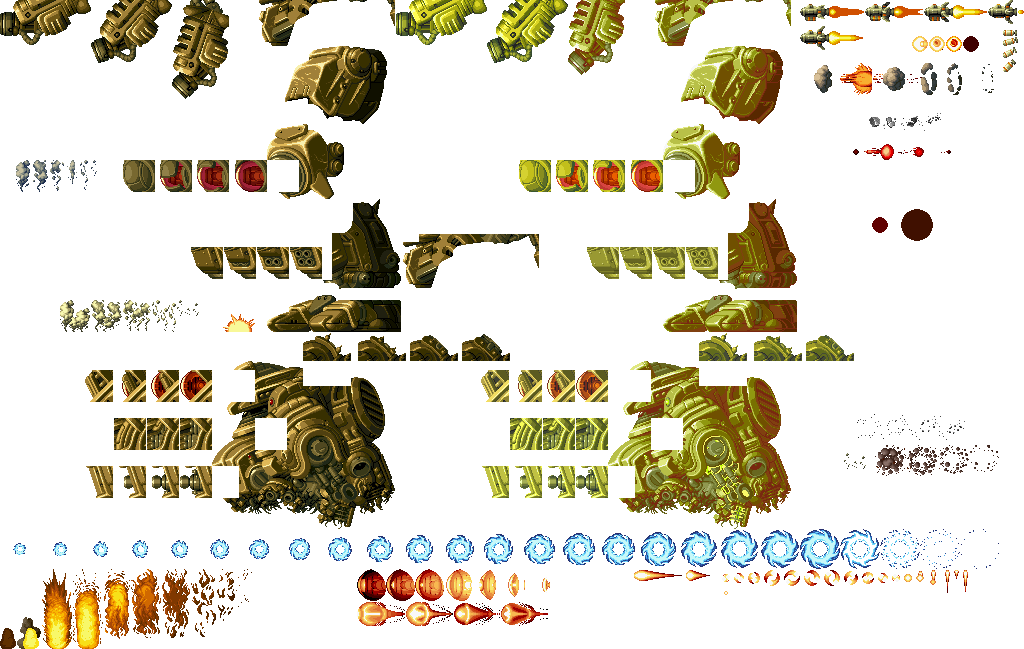
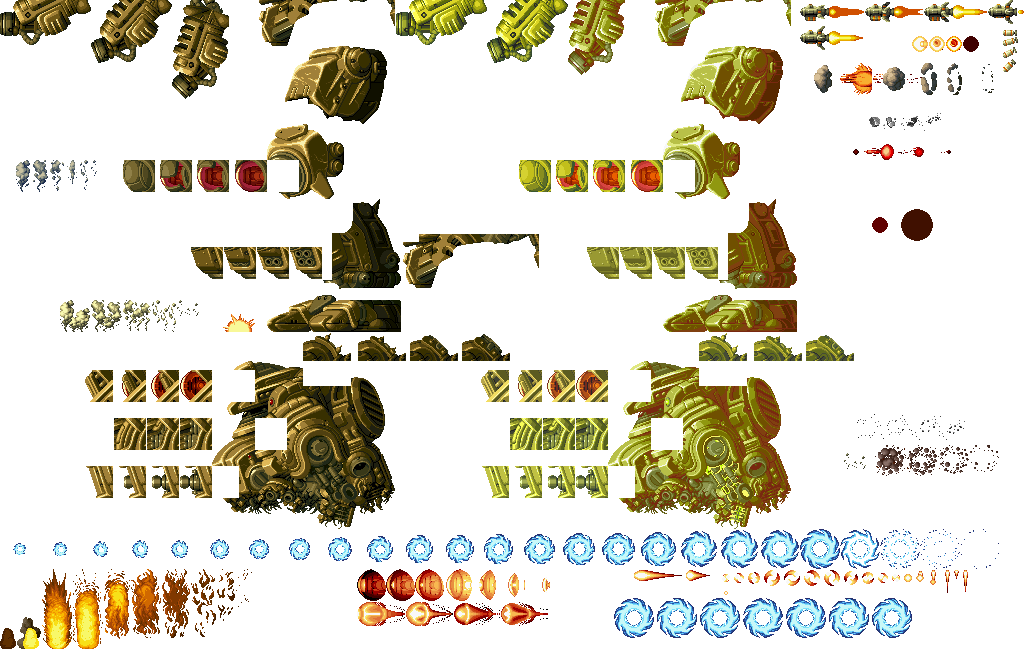
finished enemyShurikens and with this, finished full boss level3

Changed region(s): [[0.5938, 0.9245, 0.9062, 0.9861]]

diff --git a/EnemyShuriken.cpp b/EnemyShuriken.cpp
@@ -36,11 +36,30 @@ EnemyShuriken::EnemyShuriken(int x, int y, powerUpTypes type, SDL_Texture* thisT
 	missile.anim[0].PushBack({ 720,529,40,40 });
 	missile.anim[0].PushBack({ 760,529,40,40 });
 	missile.anim[0].PushBack({ 800,529,40,40 });
+	missile.anim[0].speed = 0.50f;
+	missile.anim[0].repeat = false;
 
+	// looping animation
+	missile.anim[1].PushBack({ 614,598,40,40 });
+	missile.anim[1].PushBack({ 657,598,40,40 });
+	missile.anim[1].PushBack({ 700,598,40,40 });
+	missile.anim[1].PushBack({ 743,598,40,40 });
+	missile.anim[1].PushBack({ 786,598,40,40 });
+	missile.anim[1].PushBack({ 829,598,40,40 });
+	missile.anim[1].PushBack({ 872,598,40,40 });
+	missile.anim[1].speed = 0.25f;
 
-	animation = &missile.anim[4]; //links animation
+	// disappear anim
+	missile.anim[2].PushBack({ 840,529,40,40 });
+	missile.anim[2].PushBack({ 880,529,40,40 });
+	missile.anim[2].PushBack({ 920,529,40,40 });
+	missile.anim[2].PushBack({ 960,529,40,40 });
+	missile.anim[2].speed = 0.25f;
+	missile.anim[2].repeat = false;
 
-	missile.current_animation = &missile.anim[4];
+	//animation = &missile.anim[4]; //links animation
+
+	//missile.current_animation = &missile.anim[4];
 
 	//original_y = y;
 	//fposition.x = x;
@@ -78,7 +97,7 @@ EnemyShuriken::EnemyShuriken(int x, int y, powerUpTypes type, SDL_Texture* thisT
 
 
 	// add collider
-	collider = App->collision->AddCollider({ 0, 0, 4, 4 }, COLLIDER_TYPE::COLLIDER_ENEMY, (Module*)App->enemies);
+	collider = App->collision->AddCollider({ 0, 0, 20, 20 }, COLLIDER_TYPE::COLLIDER_ENEMY, (Module*)App->enemies);
 
 }
 
@@ -86,7 +105,7 @@ void EnemyShuriken::Move()
 {
 	// update collider position
 	if (collider != nullptr)
-		collider->SetPos(position.x, position.y);
+		collider->SetPos(position.x +10, position.y + 10 );
 
 	// updates fpositions
 	missile.fposition.x += missile.xSpeed + scrollSpeed; // plus update with the current player follow camera speed
@@ -120,11 +139,14 @@ void EnemyShuriken::Draw()
 	}
 
 	if (missile.now_alive_time >= missile.search_life_time)
+		missile.current_animation = &missile.anim[2];
+
+	if (missile.anim[2].finish)
 		killMe = true; // destroy missile
 
-					   // ---------------------------------------------------------------------------------------------------
+	// ---------------------------------------------------------------------------------------------------
 
-					   // movement logic call
+	 // movement logic call
 
 	if (missile.searching)
 	{
@@ -134,6 +156,13 @@ void EnemyShuriken::Draw()
 
 
 	// MISSILE animation draw -------------------------------------------------------
+
+	if (missile.anim[0].finish && !notSwaped)
+	{
+		missile.current_animation = &missile.anim[1];
+		
+		notSwaped = true;
+	}
 
 	missile.rect = missile.current_animation->GetCurrentFrame();
 

diff --git a/EnemyColdMachine.cpp b/EnemyColdMachine.cpp
@@ -549,6 +549,8 @@ void EnemyColdMachine::fase2AttackManager()
 				// instantiate next shuriken
 				coldMachine.chest.numShurikens++;
 				LOG("SHURIKEN %d", coldMachine.chest.numShurikens);
+				App->enemies->AddEnemy(SHURIKEN, position.x + coldMachine.chest.chestPiece.position.x + 100, 
+					position.y + coldMachine.chest.chestPiece.position.y - 6, NONE);
 
 				if (coldMachine.chest.numShurikens > 2) // max 3 shurikens per wave
 				{

diff --git a/EnemyShuriken.h b/EnemyShuriken.h
@@ -11,7 +11,7 @@ private:
 
 	struct projectile
 	{
-		Animation anim[2]; // instantiation animation, rotation animation
+		Animation anim[3]; // instantiation animation, rotation animation, disappear animation
 		Animation* current_animation = nullptr;
 		SDL_Rect rect;
 		uint playerTargetIndex = 0;
@@ -40,6 +40,8 @@ private:
 
 	float decX = 0.10f;//0.05f;
 	float decY = 0.10f;//0.03f;
+
+	bool notSwaped = false;
 
 
 
